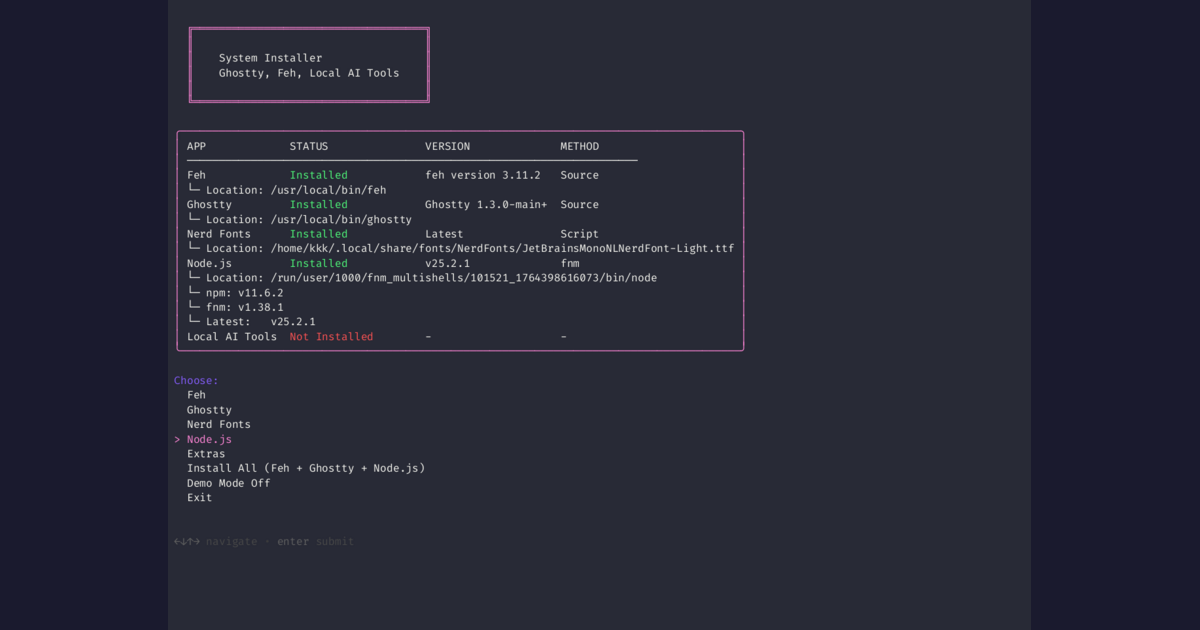
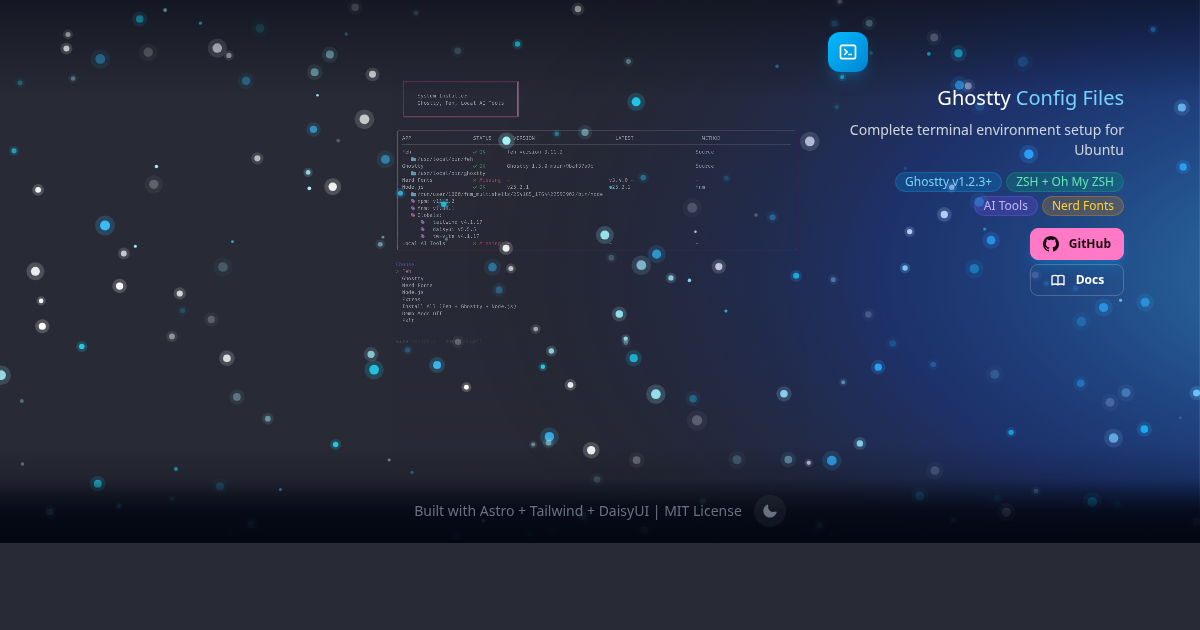
chore(website): update Facebook OG preview image with terminal dashboard
- Captured new og-main.png showing the System Installer dashboard
- Shows video background with terminal output visible
- Better represents the project's functionality in social previews

🤖 Generated with [Claude Code](https://claude.com/claude-code)

diff --git a/docs/index.html b/docs/index.html
@@ -1,4 +1,4 @@
-<!DOCTYPE html><html lang="en" data-theme="dracula"> <head><meta charset="utf-8"><link rel="icon" type="image/svg+xml" href="/ghostty-config-files/favicon.svg"><meta name="viewport" content="width=device-width, initial-scale=1"><meta name="generator" content="Astro v5.16.2"><meta name="description" content="Complete terminal environment setup for Ubuntu with Ghostty, ZSH, AI tools, and modern CLI utilities."><title>Ghostty Configuration Files</title><!-- Open Graph / Facebook --><meta property="og:type" content="website"><meta property="og:url" content="https://kairin.github.io/ghostty-config-files/"><meta property="og:title" content="Ghostty Configuration Files"><meta property="og:description" content="Complete terminal environment setup for Ubuntu with Ghostty, ZSH, AI tools, and modern CLI utilities."><meta property="og:image" content="https://kairin.github.io/ghostty-config-files/og-main.png"><meta property="og:site_name" content="Ghostty Configuration Files"><!-- Twitter --><meta name="twitter:card" content="summary_large_image"><meta name="twitter:url" content="https://kairin.github.io/ghostty-config-files/"><meta name="twitter:title" content="Ghostty Configuration Files"><meta name="twitter:description" content="Complete terminal environment setup for Ubuntu with Ghostty, ZSH, AI tools, and modern CLI utilities."><meta name="twitter:image" content="https://kairin.github.io/ghostty-config-files/og-main.png"><link rel="stylesheet" href="/ghostty-config-files/_astro/activity.C1gyqmdc.css"></head> <body class="min-h-screen bg-transparent text-white overflow-x-hidden"> <!-- Background Layers (bottom to top) --> <!-- Layer 1: Video Background (z-30) - 75% size, centered --> <div class="fixed inset-0 -z-30 flex items-center justify-center"> <video autoplay muted loop playsinline class="w-[75%] h-[75%] object-contain opacity-90 md:opacity-60 rounded-lg"> <source src="/ghostty-config-files/video/font-install.webm" type="video/webm"> </video> </div> <!-- Layer 2: Canvas Particles (z-25) --> <div class="fixed inset-0 -z-[25]"> <canvas id="particle-canvas" class="absolute inset-0 w-full h-full pointer-events-none" aria-hidden="true"></canvas> <script type="module" src="/ghostty-config-files/_astro/ParticleCanvas.astro_astro_type_script_index_0_lang.Bh3m4j2m.js"></script> </div> <!-- Layer 3: Glow Effect (z-20) --> <div class="fixed inset-0 -z-20"> <div class="absolute inset-0 overflow-hidden bg-transparent"> <svg class="absolute -bottom-48 left-[-40%] h-[80rem] w-[180%] lg:top-[-40%] lg:-right-40 lg:bottom-auto lg:left-auto lg:h-[180%] lg:w-[112rem]" aria-hidden="true"> <defs> <radialGradient id="glow-7g1dmreyup8-desktop" cx="100%"> <stop offset="0%" stop-color="rgba(56, 189, 248, 0.6)"></stop> <stop offset="53.95%" stop-color="rgba(0, 71, 255, 0.25)"></stop> <stop offset="100%" stop-color="rgba(10, 14, 23, 0)"></stop> </radialGradient> <radialGradient id="glow-7g1dmreyup8-mobile" cy="100%"> <stop offset="0%" stop-color="rgba(56, 189, 248, 0.6)"></stop> <stop offset="53.95%" stop-color="rgba(0, 71, 255, 0.25)"></stop> <stop offset="100%" stop-color="rgba(10, 14, 23, 0)"></stop> </radialGradient> </defs> <rect width="100%" height="100%" fill="url(#glow-7g1dmreyup8-desktop)" class="hidden lg:block"></rect> <rect width="100%" height="100%" fill="url(#glow-7g1dmreyup8-mobile)" class="lg:hidden"></rect> </svg> <div class="absolute inset-x-0 right-0 bottom-0 h-px bg-white/10 mix-blend-overlay lg:top-0 lg:left-auto lg:h-auto lg:w-px"></div> </div> </div> <!-- Layer 4: StarField Constellations (z-15) --> <div class="fixed inset-0 -z-[15]"> <svg viewBox="0 0 881 211" fill="white" aria-hidden="true" class="pointer-events-none absolute w-[55rem] origin-top-right rotate-[30deg] overflow-visible opacity-100 top-0 right-0 lg:top-[-10%] lg:-right-20"> <defs> <filter id="starfield-blur-szm1u81mqm"> <feGaussianBlur in="SourceGraphic" stdDeviation="0.5"></feGaussianBlur> </filter> </defs> <!-- Constellation paths --> <g class="constellation" data-index="0"> <path stroke="white" stroke-opacity="0.5" stroke-dasharray="1" stroke-dashoffset="1" pathLength="1" fill="transparent" d="M 247,103 L 261,86 L 307,104 L 357,36" class="constellation-path"></path> <g class="star-group opacity-0"> <circle cx="247" cy="103" r="2.5" class="star"></circle> </g><g class="star-group opacity-0"> <circle cx="261" cy="86" r="2.5" class="star"></circle> </g><g class="star-group opacity-0"> <circle cx="307" cy="104" r="2.5" class="star"></circle> </g><g class="star-group opacity-0"> <circle cx="357" cy="36" r="2.5" class="star"></circle> </g> </g><g class="constellation" data-index="1"> <path stroke="white" stroke-opacity="0.5" stroke-dasharray="1" stroke-dashoffset="1" pathLength="1" fill="transparent" d="M 586,120 L 516,100 L 491,62 L 440,107 L 477,180 L 516,100" class="constellation-path"></path> <g class="star-group opacity-0"> <circle cx="586" cy="120" r="2.5" class="star"></circle> </g><g class="star-group opacity-0"> <circle cx="516" cy="100" r="2.5" class="star"></circle> </g><g class="star-group opacity-0"> <circle cx="491" cy="62" r="2.5" class="star"></circle> </g><g class="star-group opacity-0"> <circle cx="440" cy="107" r="2.5" class="star"></circle> </g><g class="star-group opacity-0"> <circle cx="477" cy="180" r="2.5" class="star"></circle> </g> </g><g class="constellation" data-index="2"> <path stroke="white" stroke-opacity="0.5" stroke-dasharray="1" stroke-dashoffset="1" pathLength="1" fill="transparent" d="M 733,100 L 803,120 L 879,113 L 823,164 L 803,120" class="constellation-path"></path> <g class="star-group opacity-0"> <circle cx="733" cy="100" r="2.5" class="star"></circle> </g><g class="star-group opacity-0"> <circle cx="803" cy="120" r="2.5" class="star"></circle> </g><g class="star-group opacity-0"> <circle cx="879" cy="113" r="2.5" class="star"></circle> </g><g class="star-group opacity-0"> <circle cx="823" cy="164" r="2.5" class="star"></circle> </g> </g> <!-- Individual stars --> <g class="star-group opacity-0" data-dim="true"> <circle cx="4" cy="4" r="2.5" class="star" style="transform-origin: 0.25rem 0.25rem; opacity: 0.6; transform: scale(1.5);" filter="url(#starfield-blur-szm1u81mqm)"></circle> </g><g class="star-group opacity-0" data-dim="true"> <circle cx="4" cy="44" r="2.5" class="star" style="transform-origin: 0.25rem 2.75rem; opacity: 0.6; transform: scale(1.5);"></circle> </g><g class="star-group opacity-0"> <circle cx="36" cy="22" r="2.5" class="star" style="transform-origin: 2.25rem 1.375rem; opacity: 1; transform: scale(2);"></circle> </g><g class="star-group opacity-0" data-dim="true"> <circle cx="50" cy="146" r="2.5" class="star" style="transform-origin: 3.125rem 9.125rem; opacity: 0.6; transform: scale(1.5);" filter="url(#starfield-blur-szm1u81mqm)"></circle> </g><g class="star-group opacity-0" data-dim="true"> <circle cx="64" cy="43" r="2.5" class="star" style="transform-origin: 4rem 2.6875rem; opacity: 0.6; transform: scale(1.5);" filter="url(#starfield-blur-szm1u81mqm)"></circle> </g><g class="star-group opacity-0" data-dim="true"> <circle cx="76" cy="30" r="2.5" class="star" style="transform-origin: 4.75rem 1.875rem; opacity: 0.6; transform: scale(1.5);"></circle> </g><g class="star-group opacity-0"> <circle cx="101" cy="116" r="2.5" class="star" style="transform-origin: 6.3125rem 7.25rem; opacity: 1; transform: scale(2);"></circle> </g><g class="star-group opacity-0" data-dim="true"> <circle cx="140" cy="36" r="2.5" class="star" style="transform-origin: 8.75rem 2.25rem; opacity: 0.6; transform: scale(1.5);"></circle> </g><g class="star-group opacity-0"> <circle cx="149" cy="134" r="2.5" class="star" style="transform-origin: 9.3125rem 8.375rem; opacity: 1; transform: scale(2);"></circle> </g><g class="star-group opacity-0" data-dim="true"> <circle cx="162" cy="74" r="2.5" class="star" style="transform-origin: 10.125rem 4.625rem; opacity: 0.6; transform: scale(1.5);"></circle> </g><g class="star-group opacity-0" data-dim="true"> <circle cx="171" cy="96" r="2.5" class="star" style="transform-origin: 10.6875rem 6rem; opacity: 0.6; transform: scale(1.5);" filter="url(#starfield-blur-szm1u81mqm)"></circle> </g><g class="star-group opacity-0" data-dim="true"> <circle cx="210" cy="56" r="2.5" class="star" style="transform-origin: 13.125rem 3.5rem; opacity: 0.6; transform: scale(1.5);" filter="url(#starfield-blur-szm1u81mqm)"></circle> </g><g class="star-group opacity-0"> <circle cx="235" cy="90" r="2.5" class="star" style="transform-origin: 14.6875rem 5.625rem; opacity: 1; transform: scale(2);"></circle> </g><g class="star-group opacity-0" data-dim="true"> <circle cx="275" cy="82" r="2.5" class="star" style="transform-origin: 17.1875rem 5.125rem; opacity: 0.6; transform: scale(1.5);" filter="url(#starfield-blur-szm1u81mqm)"></circle> </g><g class="star-group opacity-0"> <circle cx="306" cy="6" r="2.5" class="star" style="transform-origin: 19.125rem 0.375rem; opacity: 1; transform: scale(2);"></circle> </g><g class="star-group opacity-0" data-dim="true"> <circle cx="307" cy="64" r="2.5" class="star" style="transform-origin: 19.1875rem 4rem; opacity: 0.6; transform: scale(1.5);" filter="url(#starfield-blur-szm1u81mqm)"></circle> </g><g class="star-group opacity-0" data-dim="true"> <circle cx="380" cy="68" r="2.5" class="star" style="transform-origin: 23.75rem 4.25rem; opacity: 0.6; transform: scale(1.5);"></circle> </g><g class="star-group opacity-0" data-dim="true"> <circle cx="380" cy="108" r="2.5" class="star" style="transform-origin: 23.75rem 6.75rem; opacity: 0.6; transform: scale(1.5);" filter="url(#starfield-blur-szm1u81mqm)"></circle> </g><g class="star-group opacity-0" data-dim="true"> <circle cx="391" cy="148" r="2.5" class="star" style="transform-origin: 24.4375rem 9.25rem; opacity: 0.6; transform: scale(1.5);" filter="url(#starfield-blur-szm1u81mqm)"></circle> </g><g class="star-group opacity-0" data-dim="true"> <circle cx="405" cy="18" r="2.5" class="star" style="transform-origin: 25.3125rem 1.125rem; opacity: 0.6; transform: scale(1.5);"></circle> </g><g class="star-group opacity-0" data-dim="true"> <circle cx="412" cy="86" r="2.5" class="star" style="transform-origin: 25.75rem 5.375rem; opacity: 0.6; transform: scale(1.5);" filter="url(#starfield-blur-szm1u81mqm)"></circle> </g><g class="star-group opacity-0" data-dim="true"> <circle cx="426" cy="210" r="2.5" class="star" style="transform-origin: 26.625rem 13.125rem; opacity: 0.6; transform: scale(1.5);" filter="url(#starfield-blur-szm1u81mqm)"></circle> </g><g class="star-group opacity-0" data-dim="true"> <circle cx="427" cy="56" r="2.5" class="star" style="transform-origin: 26.6875rem 3.5rem; opacity: 0.6; transform: scale(1.5);" filter="url(#starfield-blur-szm1u81mqm)"></circle> </g><g class="star-group opacity-0"> <circle cx="538" cy="138" r="2.5" class="star" style="transform-origin: 33.625rem 8.625rem; opacity: 1; transform: scale(2);"></circle> </g><g class="star-group opacity-0" data-dim="true"> <circle cx="563" cy="88" r="2.5" class="star" style="transform-origin: 35.1875rem 5.5rem; opacity: 0.6; transform: scale(1.5);" filter="url(#starfield-blur-szm1u81mqm)"></circle> </g><g class="star-group opacity-0" data-dim="true"> <circle cx="611" cy="154" r="2.5" class="star" style="transform-origin: 38.1875rem 9.625rem; opacity: 0.6; transform: scale(1.5);" filter="url(#starfield-blur-szm1u81mqm)"></circle> </g><g class="star-group opacity-0"> <circle cx="637" cy="150" r="2.5" class="star" style="transform-origin: 39.8125rem 9.375rem; opacity: 1; transform: scale(2);"></circle> </g><g class="star-group opacity-0" data-dim="true"> <circle cx="651" cy="146" r="2.5" class="star" style="transform-origin: 40.6875rem 9.125rem; opacity: 0.6; transform: scale(1.5);"></circle> </g><g class="star-group opacity-0" data-dim="true"> <circle cx="682" cy="70" r="2.5" class="star" style="transform-origin: 42.625rem 4.375rem; opacity: 0.6; transform: scale(1.5);" filter="url(#starfield-blur-szm1u81mqm)"></circle> </g><g class="star-group opacity-0"> <circle cx="683" cy="128" r="2.5" class="star" style="transform-origin: 42.6875rem 8rem; opacity: 1; transform: scale(2);"></circle> </g><g class="star-group opacity-0" data-dim="true"> <circle cx="781" cy="82" r="2.5" class="star" style="transform-origin: 48.8125rem 5.125rem; opacity: 0.6; transform: scale(1.5);" filter="url(#starfield-blur-szm1u81mqm)"></circle> </g><g class="star-group opacity-0" data-dim="true"> <circle cx="785" cy="158" r="2.5" class="star" style="transform-origin: 49.0625rem 9.875rem; opacity: 0.6; transform: scale(1.5);"></circle> </g><g class="star-group opacity-0" data-dim="true"> <circle cx="832" cy="146" r="2.5" class="star" style="transform-origin: 52rem 9.125rem; opacity: 0.6; transform: scale(1.5);" filter="url(#starfield-blur-szm1u81mqm)"></circle> </g><g class="star-group opacity-0"> <circle cx="852" cy="89" r="2.5" class="star" style="transform-origin: 53.25rem 5.5625rem; opacity: 1; transform: scale(2);"></circle> </g> </svg> <script type="module">document.addEventListener("DOMContentLoaded",()=>{const s=document.querySelectorAll(".star-group"),n=document.querySelectorAll(".constellation-path");s.forEach((t,i)=>{const e=Math.random()*2e3;setTimeout(()=>{t.classList.remove("opacity-0"),t.classList.add("transition-opacity","duration-[4000ms]","opacity-100")},e);const o=t.querySelector(".star");if(o){const a=t.getAttribute("data-dim")==="true",r=Math.random()*2e3+2e3;o.animate([{opacity:a?.6:1,transform:a?"scale(1.5)":"scale(2)"},{opacity:a?.9:.7,transform:a?"scale(2)":"scale(1.5)"}],{duration:r,delay:e+4e3,direction:"alternate",iterations:1/0,easing:"ease-in-out"})}}),n.forEach((t,i)=>{const e=Math.random()*3e3+2e3;t.animate([{strokeDashoffset:1},{strokeDashoffset:0}],{duration:5e3,delay:e,fill:"forwards",easing:"ease-out"})})});</script> </div> <!-- Layer 5: Gradient Overlays (z-10) - desktop only --> <div class="fixed inset-0 -z-10 hidden md:block"> <div class="absolute inset-x-0 top-0 h-24 bg-gradient-to-b from-gray-950/50 to-transparent"></div> <div class="absolute inset-x-0 bottom-0 h-24 bg-gradient-to-t from-gray-950/50 to-transparent"></div> </div> <!-- Main Content --> <main class="relative min-h-screen flex items-start justify-end pt-8 pr-16"> <div class="relative z-10 w-auto max-w-xs px-3"> <div class="flex flex-col items-end text-right"> <!-- Logo/Icon - aligned left --> <div class="mb-3 self-start"> <div class="inline-flex items-center justify-center w-10 h-10 rounded-xl bg-gradient-to-br from-sky-400 to-sky-600 shadow-lg shadow-sky-500/25"> <svg xmlns="http://www.w3.org/2000/svg" class="h-5 w-5 text-white" fill="none" viewBox="0 0 24 24" stroke="currentColor"> <path stroke-linecap="round" stroke-linejoin="round" stroke-width="2" d="M8 9l3 3-3 3m5 0h3M5 20h14a2 2 0 002-2V6a2 2 0 00-2-2H5a2 2 0 00-2 2v12a2 2 0 002 2z"></path> </svg> </div> </div> <!-- Title --> <h1 class="font-display text-xl font-light text-white"> Ghostty  <span class="text-sky-300">Config Files</span> </h1> <!-- Tagline --> <p class="mt-2 text-sm text-gray-300"> Complete terminal environment setup for Ubuntu </p> <!-- Feature Pills --> <div class="mt-3 flex flex-wrap gap-1 justify-end"> <span class="badge badge-sm bg-sky-500/20 text-sky-300 border-sky-500/30">Ghostty v1.2.3+</span> <span class="badge badge-sm bg-emerald-500/20 text-emerald-300 border-emerald-500/30">ZSH + Oh My ZSH</span> <span class="badge badge-sm bg-violet-500/20 text-violet-300 border-violet-500/30">AI Tools</span> <span class="badge badge-sm bg-amber-500/20 text-amber-300 border-amber-500/30">Nerd Fonts</span> </div> <!-- Quick Install (hidden to save space) --> <div class="hidden"> <div class="mockup-code bg-gray-900/80 backdrop-blur text-sm shadow-xl"> <pre data-prefix="$" class="text-gray-300"><code>git clone https://github.com/kairin/ghostty-config-files</code></pre> <pre data-prefix="$" class="text-gray-300"><code>cd ghostty-config-files && ./start.sh</code></pre> </div> </div> <!-- CTA Buttons --> <div class="mt-3 flex flex-col gap-1"> <a href="https://github.com/kairin/ghostty-config-files" target="_blank" rel="noopener" class="btn btn-primary btn-sm shadow-lg shadow-sky-500/25"> <svg xmlns="http://www.w3.org/2000/svg" class="h-4 w-4 mr-1" fill="currentColor" viewBox="0 0 24 24"> <path d="M12 0c-6.626 0-12 5.373-12 12 0 5.302 3.438 9.8 8.207 11.387.599.111.793-.261.793-.577v-2.234c-3.338.726-4.033-1.416-4.033-1.416-.546-1.387-1.333-1.756-1.333-1.756-1.089-.745.083-.729.083-.729 1.205.084 1.839 1.237 1.839 1.237 1.07 1.834 2.807 1.304 3.492.997.107-.775.418-1.305.762-1.604-2.665-.305-5.467-1.334-5.467-5.931 0-1.311.469-2.381 1.236-3.221-.124-.303-.535-1.524.117-3.176 0 0 1.008-.322 3.301 1.23.957-.266 1.983-.399 3.003-.404 1.02.005 2.047.138 3.006.404 2.291-1.552 3.297-1.23 3.297-1.23.653 1.653.242 2.874.118 3.176.77.84 1.235 1.911 1.235 3.221 0 4.609-2.807 5.624-5.479 5.921.43.372.823 1.102.823 2.222v3.293c0 .319.192.694.801.576 4.765-1.589 8.199-6.086 8.199-11.386 0-6.627-5.373-12-12-12z"></path> </svg>
+<!DOCTYPE html><html lang="en" data-theme="dracula"> <head><meta charset="utf-8"><link rel="icon" type="image/svg+xml" href="/ghostty-config-files/favicon.svg"><meta name="viewport" content="width=device-width, initial-scale=1"><meta name="generator" content="Astro v5.16.2"><meta name="description" content="Complete terminal environment setup for Ubuntu with Ghostty, ZSH, AI tools, and modern CLI utilities."><title>Ghostty Configuration Files</title><!-- Open Graph / Facebook --><meta property="og:type" content="website"><meta property="og:url" content="https://kairin.github.io/ghostty-config-files/"><meta property="og:title" content="Ghostty Configuration Files"><meta property="og:description" content="Complete terminal environment setup for Ubuntu with Ghostty, ZSH, AI tools, and modern CLI utilities."><meta property="og:image" content="https://kairin.github.io/ghostty-config-files/og-main.png"><meta property="og:site_name" content="Ghostty Configuration Files"><!-- Twitter --><meta name="twitter:card" content="summary_large_image"><meta name="twitter:url" content="https://kairin.github.io/ghostty-config-files/"><meta name="twitter:title" content="Ghostty Configuration Files"><meta name="twitter:description" content="Complete terminal environment setup for Ubuntu with Ghostty, ZSH, AI tools, and modern CLI utilities."><meta name="twitter:image" content="https://kairin.github.io/ghostty-config-files/og-main.png"><link rel="stylesheet" href="/ghostty-config-files/_astro/activity.C1gyqmdc.css"></head> <body class="min-h-screen bg-transparent text-white overflow-x-hidden"> <!-- Background Layers (bottom to top) --> <!-- Layer 1: Video Background (z-30) - 75% size, centered --> <div class="fixed inset-0 -z-30 flex items-center justify-center"> <video autoplay muted loop playsinline class="w-[75%] h-[75%] object-contain opacity-90 md:opacity-60 rounded-lg"> <source src="/ghostty-config-files/video/font-install.webm" type="video/webm"> </video> </div> <!-- Layer 2: Canvas Particles (z-25) --> <div class="fixed inset-0 -z-[25]"> <canvas id="particle-canvas" class="absolute inset-0 w-full h-full pointer-events-none" aria-hidden="true"></canvas> <script type="module" src="/ghostty-config-files/_astro/ParticleCanvas.astro_astro_type_script_index_0_lang.Bh3m4j2m.js"></script> </div> <!-- Layer 3: Glow Effect (z-20) --> <div class="fixed inset-0 -z-20"> <div class="absolute inset-0 overflow-hidden bg-transparent"> <svg class="absolute -bottom-48 left-[-40%] h-[80rem] w-[180%] lg:top-[-40%] lg:-right-40 lg:bottom-auto lg:left-auto lg:h-[180%] lg:w-[112rem]" aria-hidden="true"> <defs> <radialGradient id="glow-wml4y18wnif-desktop" cx="100%"> <stop offset="0%" stop-color="rgba(56, 189, 248, 0.6)"></stop> <stop offset="53.95%" stop-color="rgba(0, 71, 255, 0.25)"></stop> <stop offset="100%" stop-color="rgba(10, 14, 23, 0)"></stop> </radialGradient> <radialGradient id="glow-wml4y18wnif-mobile" cy="100%"> <stop offset="0%" stop-color="rgba(56, 189, 248, 0.6)"></stop> <stop offset="53.95%" stop-color="rgba(0, 71, 255, 0.25)"></stop> <stop offset="100%" stop-color="rgba(10, 14, 23, 0)"></stop> </radialGradient> </defs> <rect width="100%" height="100%" fill="url(#glow-wml4y18wnif-desktop)" class="hidden lg:block"></rect> <rect width="100%" height="100%" fill="url(#glow-wml4y18wnif-mobile)" class="lg:hidden"></rect> </svg> <div class="absolute inset-x-0 right-0 bottom-0 h-px bg-white/10 mix-blend-overlay lg:top-0 lg:left-auto lg:h-auto lg:w-px"></div> </div> </div> <!-- Layer 4: StarField Constellations (z-15) --> <div class="fixed inset-0 -z-[15]"> <svg viewBox="0 0 881 211" fill="white" aria-hidden="true" class="pointer-events-none absolute w-[55rem] origin-top-right rotate-[30deg] overflow-visible opacity-100 top-0 right-0 lg:top-[-10%] lg:-right-20"> <defs> <filter id="starfield-blur-9lcnr2fjpul"> <feGaussianBlur in="SourceGraphic" stdDeviation="0.5"></feGaussianBlur> </filter> </defs> <!-- Constellation paths --> <g class="constellation" data-index="0"> <path stroke="white" stroke-opacity="0.5" stroke-dasharray="1" stroke-dashoffset="1" pathLength="1" fill="transparent" d="M 247,103 L 261,86 L 307,104 L 357,36" class="constellation-path"></path> <g class="star-group opacity-0"> <circle cx="247" cy="103" r="2.5" class="star"></circle> </g><g class="star-group opacity-0"> <circle cx="261" cy="86" r="2.5" class="star"></circle> </g><g class="star-group opacity-0"> <circle cx="307" cy="104" r="2.5" class="star"></circle> </g><g class="star-group opacity-0"> <circle cx="357" cy="36" r="2.5" class="star"></circle> </g> </g><g class="constellation" data-index="1"> <path stroke="white" stroke-opacity="0.5" stroke-dasharray="1" stroke-dashoffset="1" pathLength="1" fill="transparent" d="M 586,120 L 516,100 L 491,62 L 440,107 L 477,180 L 516,100" class="constellation-path"></path> <g class="star-group opacity-0"> <circle cx="586" cy="120" r="2.5" class="star"></circle> </g><g class="star-group opacity-0"> <circle cx="516" cy="100" r="2.5" class="star"></circle> </g><g class="star-group opacity-0"> <circle cx="491" cy="62" r="2.5" class="star"></circle> </g><g class="star-group opacity-0"> <circle cx="440" cy="107" r="2.5" class="star"></circle> </g><g class="star-group opacity-0"> <circle cx="477" cy="180" r="2.5" class="star"></circle> </g> </g><g class="constellation" data-index="2"> <path stroke="white" stroke-opacity="0.5" stroke-dasharray="1" stroke-dashoffset="1" pathLength="1" fill="transparent" d="M 733,100 L 803,120 L 879,113 L 823,164 L 803,120" class="constellation-path"></path> <g class="star-group opacity-0"> <circle cx="733" cy="100" r="2.5" class="star"></circle> </g><g class="star-group opacity-0"> <circle cx="803" cy="120" r="2.5" class="star"></circle> </g><g class="star-group opacity-0"> <circle cx="879" cy="113" r="2.5" class="star"></circle> </g><g class="star-group opacity-0"> <circle cx="823" cy="164" r="2.5" class="star"></circle> </g> </g> <!-- Individual stars --> <g class="star-group opacity-0" data-dim="true"> <circle cx="4" cy="4" r="2.5" class="star" style="transform-origin: 0.25rem 0.25rem; opacity: 0.6; transform: scale(1.5);" filter="url(#starfield-blur-9lcnr2fjpul)"></circle> </g><g class="star-group opacity-0" data-dim="true"> <circle cx="4" cy="44" r="2.5" class="star" style="transform-origin: 0.25rem 2.75rem; opacity: 0.6; transform: scale(1.5);"></circle> </g><g class="star-group opacity-0"> <circle cx="36" cy="22" r="2.5" class="star" style="transform-origin: 2.25rem 1.375rem; opacity: 1; transform: scale(2);"></circle> </g><g class="star-group opacity-0" data-dim="true"> <circle cx="50" cy="146" r="2.5" class="star" style="transform-origin: 3.125rem 9.125rem; opacity: 0.6; transform: scale(1.5);" filter="url(#starfield-blur-9lcnr2fjpul)"></circle> </g><g class="star-group opacity-0" data-dim="true"> <circle cx="64" cy="43" r="2.5" class="star" style="transform-origin: 4rem 2.6875rem; opacity: 0.6; transform: scale(1.5);" filter="url(#starfield-blur-9lcnr2fjpul)"></circle> </g><g class="star-group opacity-0" data-dim="true"> <circle cx="76" cy="30" r="2.5" class="star" style="transform-origin: 4.75rem 1.875rem; opacity: 0.6; transform: scale(1.5);"></circle> </g><g class="star-group opacity-0"> <circle cx="101" cy="116" r="2.5" class="star" style="transform-origin: 6.3125rem 7.25rem; opacity: 1; transform: scale(2);"></circle> </g><g class="star-group opacity-0" data-dim="true"> <circle cx="140" cy="36" r="2.5" class="star" style="transform-origin: 8.75rem 2.25rem; opacity: 0.6; transform: scale(1.5);"></circle> </g><g class="star-group opacity-0"> <circle cx="149" cy="134" r="2.5" class="star" style="transform-origin: 9.3125rem 8.375rem; opacity: 1; transform: scale(2);"></circle> </g><g class="star-group opacity-0" data-dim="true"> <circle cx="162" cy="74" r="2.5" class="star" style="transform-origin: 10.125rem 4.625rem; opacity: 0.6; transform: scale(1.5);"></circle> </g><g class="star-group opacity-0" data-dim="true"> <circle cx="171" cy="96" r="2.5" class="star" style="transform-origin: 10.6875rem 6rem; opacity: 0.6; transform: scale(1.5);" filter="url(#starfield-blur-9lcnr2fjpul)"></circle> </g><g class="star-group opacity-0" data-dim="true"> <circle cx="210" cy="56" r="2.5" class="star" style="transform-origin: 13.125rem 3.5rem; opacity: 0.6; transform: scale(1.5);" filter="url(#starfield-blur-9lcnr2fjpul)"></circle> </g><g class="star-group opacity-0"> <circle cx="235" cy="90" r="2.5" class="star" style="transform-origin: 14.6875rem 5.625rem; opacity: 1; transform: scale(2);"></circle> </g><g class="star-group opacity-0" data-dim="true"> <circle cx="275" cy="82" r="2.5" class="star" style="transform-origin: 17.1875rem 5.125rem; opacity: 0.6; transform: scale(1.5);" filter="url(#starfield-blur-9lcnr2fjpul)"></circle> </g><g class="star-group opacity-0"> <circle cx="306" cy="6" r="2.5" class="star" style="transform-origin: 19.125rem 0.375rem; opacity: 1; transform: scale(2);"></circle> </g><g class="star-group opacity-0" data-dim="true"> <circle cx="307" cy="64" r="2.5" class="star" style="transform-origin: 19.1875rem 4rem; opacity: 0.6; transform: scale(1.5);" filter="url(#starfield-blur-9lcnr2fjpul)"></circle> </g><g class="star-group opacity-0" data-dim="true"> <circle cx="380" cy="68" r="2.5" class="star" style="transform-origin: 23.75rem 4.25rem; opacity: 0.6; transform: scale(1.5);"></circle> </g><g class="star-group opacity-0" data-dim="true"> <circle cx="380" cy="108" r="2.5" class="star" style="transform-origin: 23.75rem 6.75rem; opacity: 0.6; transform: scale(1.5);" filter="url(#starfield-blur-9lcnr2fjpul)"></circle> </g><g class="star-group opacity-0" data-dim="true"> <circle cx="391" cy="148" r="2.5" class="star" style="transform-origin: 24.4375rem 9.25rem; opacity: 0.6; transform: scale(1.5);" filter="url(#starfield-blur-9lcnr2fjpul)"></circle> </g><g class="star-group opacity-0" data-dim="true"> <circle cx="405" cy="18" r="2.5" class="star" style="transform-origin: 25.3125rem 1.125rem; opacity: 0.6; transform: scale(1.5);"></circle> </g><g class="star-group opacity-0" data-dim="true"> <circle cx="412" cy="86" r="2.5" class="star" style="transform-origin: 25.75rem 5.375rem; opacity: 0.6; transform: scale(1.5);" filter="url(#starfield-blur-9lcnr2fjpul)"></circle> </g><g class="star-group opacity-0" data-dim="true"> <circle cx="426" cy="210" r="2.5" class="star" style="transform-origin: 26.625rem 13.125rem; opacity: 0.6; transform: scale(1.5);" filter="url(#starfield-blur-9lcnr2fjpul)"></circle> </g><g class="star-group opacity-0" data-dim="true"> <circle cx="427" cy="56" r="2.5" class="star" style="transform-origin: 26.6875rem 3.5rem; opacity: 0.6; transform: scale(1.5);" filter="url(#starfield-blur-9lcnr2fjpul)"></circle> </g><g class="star-group opacity-0"> <circle cx="538" cy="138" r="2.5" class="star" style="transform-origin: 33.625rem 8.625rem; opacity: 1; transform: scale(2);"></circle> </g><g class="star-group opacity-0" data-dim="true"> <circle cx="563" cy="88" r="2.5" class="star" style="transform-origin: 35.1875rem 5.5rem; opacity: 0.6; transform: scale(1.5);" filter="url(#starfield-blur-9lcnr2fjpul)"></circle> </g><g class="star-group opacity-0" data-dim="true"> <circle cx="611" cy="154" r="2.5" class="star" style="transform-origin: 38.1875rem 9.625rem; opacity: 0.6; transform: scale(1.5);" filter="url(#starfield-blur-9lcnr2fjpul)"></circle> </g><g class="star-group opacity-0"> <circle cx="637" cy="150" r="2.5" class="star" style="transform-origin: 39.8125rem 9.375rem; opacity: 1; transform: scale(2);"></circle> </g><g class="star-group opacity-0" data-dim="true"> <circle cx="651" cy="146" r="2.5" class="star" style="transform-origin: 40.6875rem 9.125rem; opacity: 0.6; transform: scale(1.5);"></circle> </g><g class="star-group opacity-0" data-dim="true"> <circle cx="682" cy="70" r="2.5" class="star" style="transform-origin: 42.625rem 4.375rem; opacity: 0.6; transform: scale(1.5);" filter="url(#starfield-blur-9lcnr2fjpul)"></circle> </g><g class="star-group opacity-0"> <circle cx="683" cy="128" r="2.5" class="star" style="transform-origin: 42.6875rem 8rem; opacity: 1; transform: scale(2);"></circle> </g><g class="star-group opacity-0" data-dim="true"> <circle cx="781" cy="82" r="2.5" class="star" style="transform-origin: 48.8125rem 5.125rem; opacity: 0.6; transform: scale(1.5);" filter="url(#starfield-blur-9lcnr2fjpul)"></circle> </g><g class="star-group opacity-0" data-dim="true"> <circle cx="785" cy="158" r="2.5" class="star" style="transform-origin: 49.0625rem 9.875rem; opacity: 0.6; transform: scale(1.5);"></circle> </g><g class="star-group opacity-0" data-dim="true"> <circle cx="832" cy="146" r="2.5" class="star" style="transform-origin: 52rem 9.125rem; opacity: 0.6; transform: scale(1.5);" filter="url(#starfield-blur-9lcnr2fjpul)"></circle> </g><g class="star-group opacity-0"> <circle cx="852" cy="89" r="2.5" class="star" style="transform-origin: 53.25rem 5.5625rem; opacity: 1; transform: scale(2);"></circle> </g> </svg> <script type="module">document.addEventListener("DOMContentLoaded",()=>{const s=document.querySelectorAll(".star-group"),n=document.querySelectorAll(".constellation-path");s.forEach((t,i)=>{const e=Math.random()*2e3;setTimeout(()=>{t.classList.remove("opacity-0"),t.classList.add("transition-opacity","duration-[4000ms]","opacity-100")},e);const o=t.querySelector(".star");if(o){const a=t.getAttribute("data-dim")==="true",r=Math.random()*2e3+2e3;o.animate([{opacity:a?.6:1,transform:a?"scale(1.5)":"scale(2)"},{opacity:a?.9:.7,transform:a?"scale(2)":"scale(1.5)"}],{duration:r,delay:e+4e3,direction:"alternate",iterations:1/0,easing:"ease-in-out"})}}),n.forEach((t,i)=>{const e=Math.random()*3e3+2e3;t.animate([{strokeDashoffset:1},{strokeDashoffset:0}],{duration:5e3,delay:e,fill:"forwards",easing:"ease-out"})})});</script> </div> <!-- Layer 5: Gradient Overlays (z-10) - desktop only --> <div class="fixed inset-0 -z-10 hidden md:block"> <div class="absolute inset-x-0 top-0 h-24 bg-gradient-to-b from-gray-950/50 to-transparent"></div> <div class="absolute inset-x-0 bottom-0 h-24 bg-gradient-to-t from-gray-950/50 to-transparent"></div> </div> <!-- Main Content --> <main class="relative min-h-screen flex items-start justify-end pt-8 pr-16"> <div class="relative z-10 w-auto max-w-xs px-3"> <div class="flex flex-col items-end text-right"> <!-- Logo/Icon - aligned left --> <div class="mb-3 self-start"> <div class="inline-flex items-center justify-center w-10 h-10 rounded-xl bg-gradient-to-br from-sky-400 to-sky-600 shadow-lg shadow-sky-500/25"> <svg xmlns="http://www.w3.org/2000/svg" class="h-5 w-5 text-white" fill="none" viewBox="0 0 24 24" stroke="currentColor"> <path stroke-linecap="round" stroke-linejoin="round" stroke-width="2" d="M8 9l3 3-3 3m5 0h3M5 20h14a2 2 0 002-2V6a2 2 0 00-2-2H5a2 2 0 00-2 2v12a2 2 0 002 2z"></path> </svg> </div> </div> <!-- Title --> <h1 class="font-display text-xl font-light text-white"> Ghostty  <span class="text-sky-300">Config Files</span> </h1> <!-- Tagline --> <p class="mt-2 text-sm text-gray-300"> Complete terminal environment setup for Ubuntu </p> <!-- Feature Pills --> <div class="mt-3 flex flex-wrap gap-1 justify-end"> <span class="badge badge-sm bg-sky-500/20 text-sky-300 border-sky-500/30">Ghostty v1.2.3+</span> <span class="badge badge-sm bg-emerald-500/20 text-emerald-300 border-emerald-500/30">ZSH + Oh My ZSH</span> <span class="badge badge-sm bg-violet-500/20 text-violet-300 border-violet-500/30">AI Tools</span> <span class="badge badge-sm bg-amber-500/20 text-amber-300 border-amber-500/30">Nerd Fonts</span> </div> <!-- Quick Install (hidden to save space) --> <div class="hidden"> <div class="mockup-code bg-gray-900/80 backdrop-blur text-sm shadow-xl"> <pre data-prefix="$" class="text-gray-300"><code>git clone https://github.com/kairin/ghostty-config-files</code></pre> <pre data-prefix="$" class="text-gray-300"><code>cd ghostty-config-files && ./start.sh</code></pre> </div> </div> <!-- CTA Buttons --> <div class="mt-3 flex flex-col gap-1"> <a href="https://github.com/kairin/ghostty-config-files" target="_blank" rel="noopener" class="btn btn-primary btn-sm shadow-lg shadow-sky-500/25"> <svg xmlns="http://www.w3.org/2000/svg" class="h-4 w-4 mr-1" fill="currentColor" viewBox="0 0 24 24"> <path d="M12 0c-6.626 0-12 5.373-12 12 0 5.302 3.438 9.8 8.207 11.387.599.111.793-.261.793-.577v-2.234c-3.338.726-4.033-1.416-4.033-1.416-.546-1.387-1.333-1.756-1.333-1.756-1.089-.745.083-.729.083-.729 1.205.084 1.839 1.237 1.839 1.237 1.07 1.834 2.807 1.304 3.492.997.107-.775.418-1.305.762-1.604-2.665-.305-5.467-1.334-5.467-5.931 0-1.311.469-2.381 1.236-3.221-.124-.303-.535-1.524.117-3.176 0 0 1.008-.322 3.301 1.23.957-.266 1.983-.399 3.003-.404 1.02.005 2.047.138 3.006.404 2.291-1.552 3.297-1.23 3.297-1.23.653 1.653.242 2.874.118 3.176.77.84 1.235 1.911 1.235 3.221 0 4.609-2.807 5.624-5.479 5.921.43.372.823 1.102.823 2.222v3.293c0 .319.192.694.801.576 4.765-1.589 8.199-6.086 8.199-11.386 0-6.627-5.373-12-12-12z"></path> </svg>
 GitHub
 </a> <a href="/ghostty-config-files/docs/" class="btn btn-outline btn-sm border-white/20 text-white hover:bg-white/10 hover:border-white/30"> <svg xmlns="http://www.w3.org/2000/svg" class="h-4 w-4 mr-1" fill="none" viewBox="0 0 24 24" stroke="currentColor"> <path stroke-linecap="round" stroke-linejoin="round" stroke-width="2" d="M12 6.253v13m0-13C10.832 5.477 9.246 5 7.5 5S4.168 5.477 3 6.253v13C4.168 18.477 5.754 18 7.5 18s3.332.477 4.5 1.253m0-13C13.168 5.477 14.754 5 16.5 5c1.747 0 3.332.477 4.5 1.253v13C19.832 18.477 18.247 18 16.5 18c-1.746 0-3.332.477-4.5 1.253"></path> </svg>
 Docs
